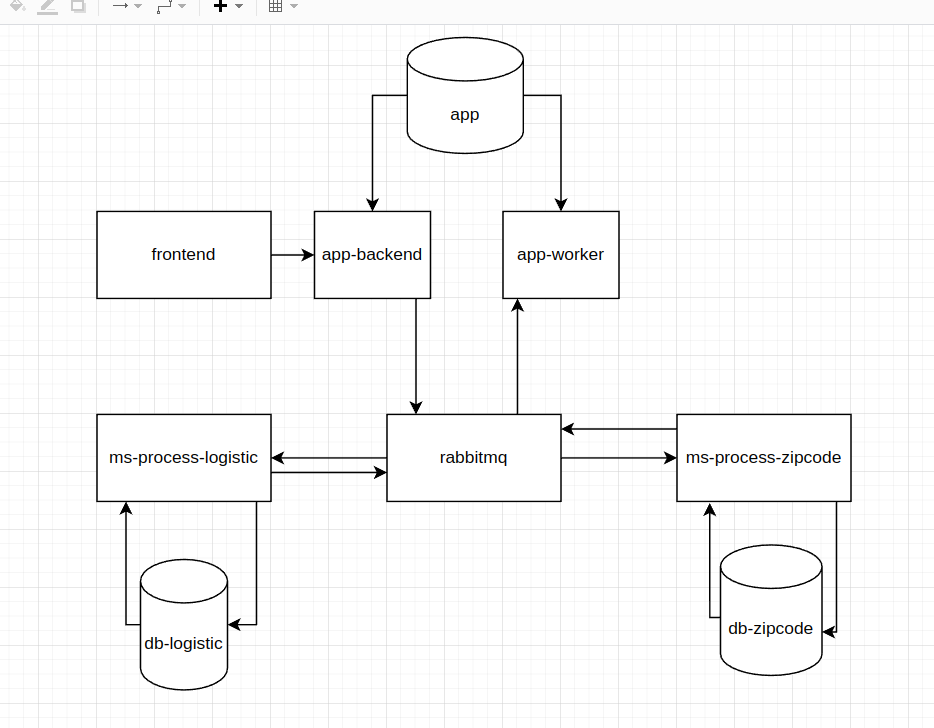
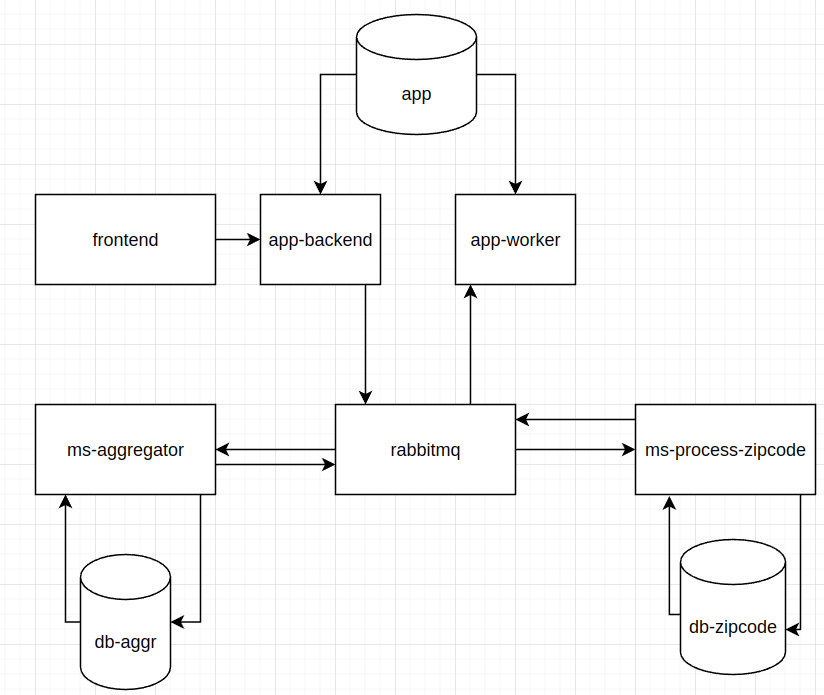
[fix] Fix bug on reconnect to rabbit

diff --git a/workers/lib/consumer.js b/workers/lib/consumer.js
@@ -1,48 +1,18 @@
-//const openChannel = require("../../lib/rabbitmq/openChannel.js")
-//const shipmentEvents = require("../../lib/events/shipments.js")
-
-//import openChannel from "../../lib/rabbitmq/openChannel"
-//import shipmentEvents from "../../lib/events/shipments"
-
-require('dotenv').config()
-const amqp = require('amqplib/callback_api')
-
-module.exports = (exchange, callback) => {
-    const connect = () => amqp.connect(
-        {
-            hostname: process.env.RABBITMQ_HOST,
-            port: process.env.RABBITMQ_PORT,
-            username: process.env.RABBITMQ_USER,
-            password: process.env.RABBITMQ_PASSWORD
-        }, (err, connection) => {
-            if (err) {
-                console.error('Failed to connect. Will try again in 5 seconds....')
-                setTimeout(connect, 5000)
-                return
+const connector = require('./connector')
+module.exports = (exchange, queue, callback) => {
+    connector(async (channel) => {
+        await channel.assertExchange(exchange, 'fanout', {durable: false})
+        const q = await channel.assertQueue(queue, {
+            exclusive: false
+        })
+        await channel.bindQueue(q.queue, exchange, '')
+        channel.consume(q.queue, async (msg) => {
+            if (msg.content) {
+                // console.log('Consuming message..', msg.content.toString())
+                await callback(channel, msg)
             }
-
-            connection.createChannel(async (err1, channel) => {
-                if (err1) throw err1
-                channel.assertExchange(exchange, 'fanout', {durable: false})
-                channel.assertQueue(exchange, {
-                    exclusive: false
-                }, async (error, q) => {
-                    if (error) {
-                        console.error('Falhou em ler a fila', error)
-                        return
-                    }
-                    channel.bindQueue(q.queue, exchange, '')
-                    channel.consume(q.queue, async (msg) => {
-                        if (msg.content) {
-                            await callback(channel, msg)
-                        }
-                    }, {
-                        noAck: false
-                    })
-                })
-            })
-        }
-    )
-
-    connect()
+        }, {
+            noAck: false
+        })
+    })
 }

diff --git a/workers/shipments/ms-aggr/output.js b/workers/shipments/ms-aggr/output.js
@@ -1,14 +1,22 @@
-const { PrismaClient } = require('@prisma/client')
-const consumer = require('../../lib/consumer.js')
-const prisma = new PrismaClient()
-const exchange = 'events__ms_aggr_output'
+const { PrismaClient } = require("@prisma/client");
+const consumer = require("../../lib/consumer");
+const inputExchange = 'events__ms_aggr_output'
+const inputQueue = 'events_shipment_updated'
 
-consumer(exchange, async (channel, msg) => {
+require('dotenv').config()
+const prisma = new PrismaClient()
+
+consumer(inputExchange, inputQueue, async (channel, msg) => {
     try {
         const updatedShipment = JSON.parse(msg.content.toString())
-        await prisma.shipment.update({
-            where: { zipDestination: updatedShipment.zipCode },
-            update: {
+        //console.log('callback, lendo msg', updatedShipment)
+        await prisma.shipment.updateMany({
+            where: {  
+                zipDestination: { 
+                    equals: updatedShipment.zipCode 
+                }
+            },
+            data: {
                 qtyVolumesSameDestination: parseInt(updatedShipment.qtyVolumesSameDestination),
                 qtyShipmentsSameDestination: parseInt(updatedShipment.qtyShipmentsSameDestination),
                 totalCost: parseFloat(updatedShipment.totalCost)
@@ -17,6 +25,7 @@ consumer(exchange, async (channel, msg) => {
         console.log('[msaggr-consumed]: Shipments updated')
         channel.ack(msg)
     } catch (e) {
+        console.log('Fail to consume: ', e)
         channel.nack(msg)
     }
 })

diff --git a/workers/shipments/ms-zipcode/output.js b/workers/shipments/ms-zipcode/output.js
@@ -1,23 +1,32 @@
-const { PrismaClient } = require('@prisma/client')
-const consumer = require('../../lib/consumer.js')
-const prisma = new PrismaClient()
-const exchange = 'events__ms_zipcode_output'
+const { PrismaClient } = require("@prisma/client");
+const consumer = require("../../lib/consumer");
 
-consumer(exchange, async (channel, msg) => {
+const inputExchange = 'events__ms_zipcode_output'
+const inputQueue = 'events_shipment_updated'
+
+require('dotenv').config()
+const prisma = new PrismaClient()
+
+consumer(inputExchange, inputQueue, async (channel, msg) => {
     try {
         const data = JSON.parse(msg.content.toString())
-        await prisma.shipment.update({
-            where: { zipDestination: updatedShipment.zipCode },
-            update: {
-                streetName: data.streetName,
-                cityName: data.cityName,
+        await prisma.shipment.updateMany({
+            where: { 
+                zipDestination: {
+                    equals: data.cep 
+                }
+            },
+            data: {
+                streetName: data.street,
+                cityName: data.city,
                 state: data.state,
                 neighborhood: data.neighborhood
             }
         })
-        console.log('[mszipcode-consumed]: Shipments updated')
+        console.log('[mszipcode-consumed]: Shipments updated', data)
         channel.ack(msg)
     } catch (e) {
+        console.log('Erro', e)
         channel.nack(msg)
     }
 })

diff --git a/workers/lib/connector.js b/workers/lib/connector.js
@@ -1,0 +1,34 @@
+const amqp = require('amqplib')
+require('dotenv').config()
+
+// const connectionData = {
+//     hostname: process.env.RABBITMQ_HOST,
+//     port: process.env.RABBITMQ_PORT,
+//     username: process.env.RABBITMQ_USER,
+//     password: process.env.RABBITMQ_PASSWORD
+// }
+
+const connectionData = `amqp://${process.env.RABBITMQ_USER}:${process.env.RABBITMQ_PASSWORD}@${process.env.RABBITMQ_HOST}/`
+
+const connect = async (callback) => {
+    console.log('dentro da connect')
+    console.log(connectionData)
+    const connection = await amqp.connect(connectionData)
+    console.log('Successfully connected to rabbitmq server..')
+    const channel = await connection.createChannel()
+    console.log('Channel successfully created')
+    callback(channel)
+    console.log('pos connect')
+}
+
+module.exports = async callback => {
+    try {
+        console.log('vou tentar conectar...')
+        await connect(callback)
+    } catch (e) {
+        console.error('Failed to connect. Will try again in 5 seconds', e)
+        setTimeout(() => {
+            connect(callback)
+        }, 5000)
+    }
+}

diff --git a/pages/shipments/create.js b/pages/shipments/create.js
@@ -73,6 +73,7 @@ export default function Create({ vias }) {
                     <label className="form-label">Zip Destination</label>
                     <input 
                         type='text' 
+                        maxLength={10}
                         className="form-control"
                         value={zipDestination}
                         onChange={updateZip}

diff --git a/workers/lib/producer.js b/workers/lib/producer.js
@@ -1,0 +1,9 @@
+const connector = require('./connector')
+
+module.exports = (exchange, payload) => {
+
+    connector(channel => {
+        channel.assertExchange(exchange, 'fanout', {durable: false})
+        channel.publish(exchange, '', Buffer.from(JSON.stringify(payload)))
+    })
+}

diff --git a/README.md b/README.md
@@ -1,24 +1,90 @@
 # POC - Simple Shipments System
 
+## Requirements
+In order to run this project on your environment, it will be needed to have installed:
+ - node (version 16.15 or superior)
+ - docker
+ - make (common on most linux distros)
+
+ ## Running
+
+ Its quite simple to put this system online. You just need to clone it and run ```make up``` inside its directory. After that you'll have this available urls:
+
+  - http://localhost:3000 - Frontend listing shipments
+  - http://localhost:8080 - adminer panel 
+    - Each microservice run in a different host, but the development credentials are all the same:
+    - user: test / password: test
+    - main service:
+        - host: db
+        - database: app
+    - MS Aggregator microservice:
+        - host: msaggrdb
+        - database: app
+    - MS ZipCode microservice:
+        - host: zipcodedb
+        - database: msdb
+ - http://localhost:15672 - RabbitMQ admin panel
+    - user: test
+    - password: test
+
+ ## Description
+
+This is a simple system which allows you to register symbolic shipments and see them in a list on index page. 
+The main app will have a frontend with a list and a form to register, an endpoint to list shipments from database and another endpoint to save a shipment into database after user submit the register form.
+
+The differencial here is: You'll inside the main service a Shipment table with 12 fields, but you'll manually fill only 4 of them: Via, Zip destination, volumes and shipment cost.
+
+So, after you fill those fields, an event will be fired and the other 2 microservices will be listening to it, so each one of them will know when a shipment was created and they will do their logic. 
+
+The MS Aggregator will aggregate and calculate the total cost and volumes of all shipments to a certain zip code. 
+
+The MS ZipCode will find the address information about that zip code.
+
+When each one of those microservices ends their function, they will send their output to rabbit as an event, which a worker from the main service will be listening to it, grabbing their output information and consolidating into its own database.
+
+Here's a diagram of the entire structure:
+
 ![Diagram](https://raw.githubusercontent.com/andersonef/poc-shipments-main/main/.github/assets/diagram.png)
 
-This is a POC (Proof of Concept) which has the objective to be a simple CRUD using Next.js with node and react.
-This system has two pages:
+ - **Frontend, app-backend:** User interface and APIs to list and save shipments. The api used to save shipment is already a rabbit publisher. Made in react and node using Next.js framework and prisma orm. 
+ - **Database app:** The database of main service. Postgresql. It has two tables, Via and Shipment. Shipment is a table containing consolidated information about shipments.
+ - **App-worker:** Background worker which acts as a consumer of a queue from rabbitmq. It will listen to events triggered from ms aggregator and ms-zipcode microservices. Made in pure nodejs and prisma orm. This worker is part of the same codebase of frontend and app-backend.
+ - **MS Aggregator:** Microservice responsible to listen to shipment created event and whenever a shipment is created, it calculate the total cost and total volumes to that zip code destination based on its own data and the recently created shipment. It has it's own database (db-aggr) which use postgresql.
+ - **MS Zipcode:** Microservice responsible to listen to shipment created event and whenever a shipment is created, it gathers information about the address from that zip code destination.
 
- - Index: will show a table with all shipments and their consolidated data on the database
- - Create: will allow the user to create a shipment just inputing 4 informations.
+ ## Screens
+ ![List page](https://raw.githubusercontent.com/andersonef/poc-shipments-main/main/.github/assets/screen-index.png)
+When you access http://localhost:3000 you'll see this page, showing some initial example data. To register a new shipment, just click on **Register new Shipment** on top menu.
 
-On the backend we have:
- - GET /shipments: will return a list of all shipments from the database
- - POST /shipments/create: will store a shipment on the database and publish a message to rabbitmq notifying that a shipment was created
+![Create page](https://raw.githubusercontent.com/andersonef/poc-shipments-main/main/.github/assets/screen-create.png)
+On this page you'll be able to register a new shipment. When you do it, a message will be sent to rabbitmq.
 
- ## Submodules
- This project needs some submodules to work with. Each submodule is an independent microservice with their own database, stack and even infrastructure.
+![Rabbit queues](https://raw.githubusercontent.com/andersonef/poc-shipments-main/main/.github/assets/screen-rabbit-queues.png)
+When you access rabbitmq administration panel, you'll be able to see the queues working.
+**WARNING:** You'll only be able to see it if you activate the microservices. The consumer creates the queues, so if you only activate the main service, the queues won't appears.
 
- In this repository you'll get:
-  - Frontend
-  - Consolidation backend (app)
-  - Consolidation database (app)
-  - Rabbitmq container
+ ## Microservices
+This project is a CRUD by itself and doesn't need another microservices to work, but if the following microservices are online, so this CRUD will gather more information about the shipments, such as total cost, total volumes, address information, etc.
 
-Submodules microservices:
+The other microservices are:
+ - https://github.com/andersonef/poc-entregas-msaggr
+ - https://github.com/andersonef/poc-entregas-mszipcode
+
+In order to deploy the entire structure on your development machine, you just need to clone all three repositories, so run ```make up``` on each one of them:
+
+```shell
+$ git clone git@github.com:andersonef/poc-shipments-main.git
+$ cd poc-shipments-main
+$ make up
+$ cd ..
+$ git clone git@github.com:andersonef/poc-entregas-mszipcode.git
+$ cd poc-entregas-mszipcode
+$ make up
+$ cd ..
+$ git clone git@github.com:andersonef/poc-entregas-msaggr.git
+$ cd poc-entregas-msaggr
+$ make up
+```
+
+It's done!
+Now you have the entire structure from diagram above running on your machine.
